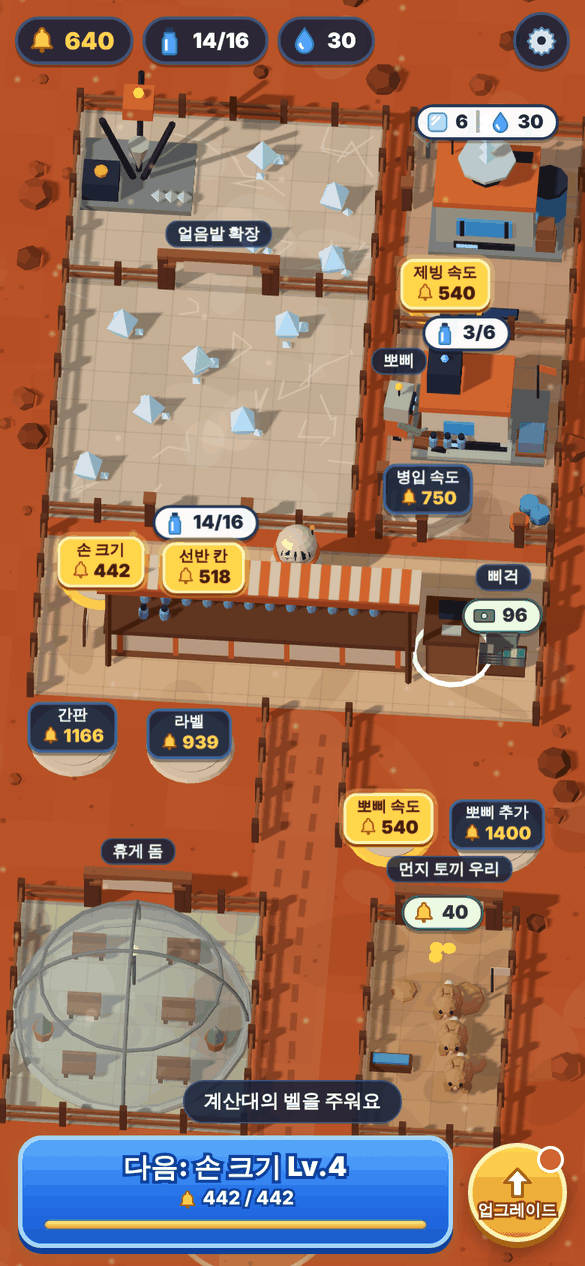
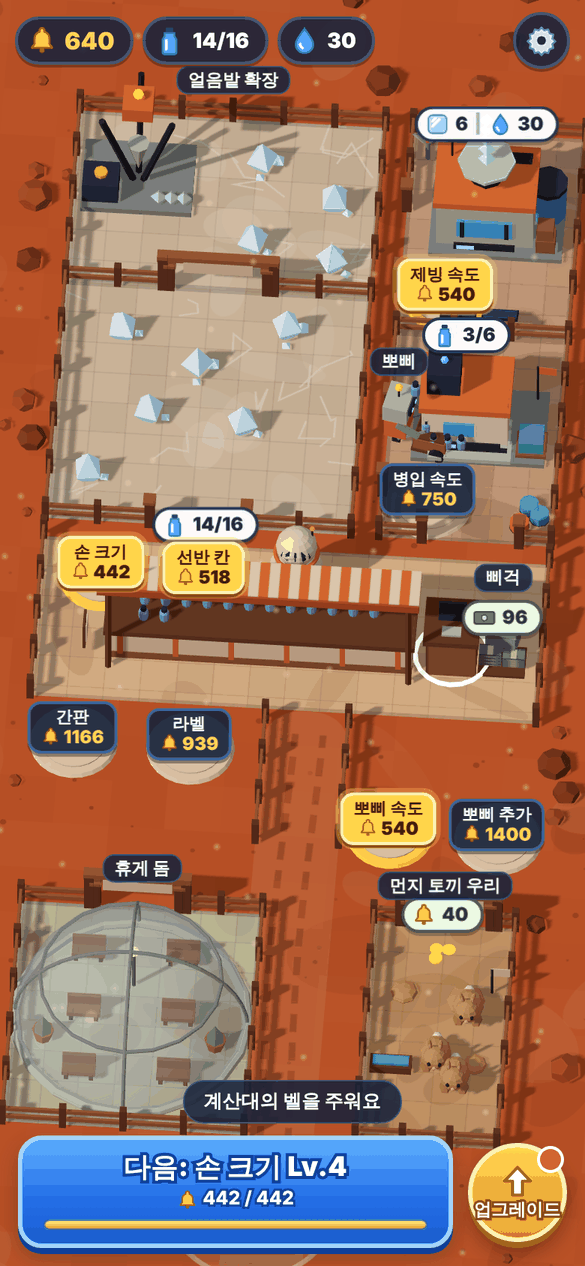
리뷰 반영: 갇힌 저장 위치 복구, 발판은 서 있을 때만, 힌트 막다른 길 정리, 라벨 겹침·글자 크기
- 옛 배치의 저장 위치가 새 건물 안이면 시작 지점으로 옮긴다 (이전엔 영영
  못 움직여 처음부터 다시 할 수밖에 없었음). 드릴 발판 완료 시도 같은 처리
- 저장 데이터에 빠진 필드는 fresh()로 채워 깨진 저장으로 시작이 안 죽게
- 발판은 걸어 지나갈 때는 벨을 안 빼고 서 있을 때만 (배너 목표가 엉뚱한
  발판으로 바뀌던 것)
- 힌트: 얼음 1~2개 들고 있을 때 제빙기로, 선반 꽉 찼고 삐걱 있으면
  기다리기, 맨 앞 손님이 선반보다 많이 원하면 계산대 힌트 안 띄움,
  토끼 우리 벨은 값어치 있을 때만
- 뽀삐: 선반이 꽉 차면 손수레를 든 채 카운터에서 기다렸다 바로 올림
- 백그라운드에서 돌아와도 부재 중 수익 정산
- 업그레이드 버튼·배너는 조이스틱 손가락이 눌린 채 두 번째 손가락으로
  눌러도 열리게 (click → pointerup)
- 구역 이름은 울타리 위, 게이트 가격표는 아치에 걸어 발판 가격표와 안 겹침.
  작은 글자 10→11px. 스크린샷 3장 갱신. iOS 최소 버전 16.4(importmap)

Claude-Session: https://claude.ai/code/session_011LWeRPxYCXJHYgvHUxMU7a

diff --git a/app/index.html b/app/index.html
@@ -32,7 +32,7 @@ canvas#c{position:fixed;inset:0;width:100%;height:100%;display:block}
 .rc{display:flex;align-items:center;gap:4px;background:rgba(255,255,255,.96);border:2px solid #2b3a55;border-radius:14px;padding:2px 8px 2px 5px;font-size:12.5px;font-weight:900;color:#1b2740;box-shadow:0 2px 0 rgba(0,0,0,.25)}
 .rc .ic{width:16px;height:16px}
 .rc.full{border-color:#ff5a3c}
-.rc .mx{background:#ff5a3c;color:#fff;border-radius:8px;padding:0 5px;font-size:10px;margin-left:2px;line-height:14px;animation:bounce .5s}
+.rc .mx{background:#ff5a3c;color:#fff;border-radius:8px;padding:0 5px;font-size:11px;margin-left:2px;line-height:14px;animation:bounce .5s}
 .rc.cash{background:#e6ffd9;border-color:#2e7d32;color:#1b5e20}
 .pulse{animation:pulse .32s}
 @keyframes pulse{0%{transform:translate(-50%,-100%) scale(1)}40%{transform:translate(-50%,-100%) scale(1.2)}100%{transform:translate(-50%,-100%) scale(1)}}
@@ -41,12 +41,12 @@ canvas#c{position:fixed;inset:0;width:100%;height:100%;display:block}
 .bub::after{content:"";position:absolute;left:50%;top:100%;margin-left:-5px;border:5px solid transparent;border-top-color:#2b3a55}
 .bub.hot{background:#ffe3dc;border-color:#c23b2a}
 .bub .ic{width:15px;height:15px}
-.sg{background:rgba(21,33,58,.9);border:2px solid #4a6190;color:#fff;padding:2px 7px 3px;font-size:10px;font-weight:800;border-radius:9px;display:flex;flex-direction:column;align-items:center;line-height:1.15;box-shadow:0 2px 0 rgba(0,0,0,.35)}
+.sg{background:rgba(21,33,58,.9);border:2px solid #4a6190;color:#fff;padding:2px 7px 3px;font-size:11px;font-weight:800;border-radius:9px;display:flex;flex-direction:column;align-items:center;line-height:1.15;box-shadow:0 2px 0 rgba(0,0,0,.35)}
 .sg b{font-weight:900;font-size:12px;color:#ffd45a;display:flex;align-items:center;gap:2px}.sg b .ic{width:13px;height:13px}
 .sg.ok{background:#ffd54a;border-color:#fff2b0;color:#3a2200;box-shadow:0 2px 0 #8a5200,0 0 0 3px rgba(255,213,74,.4)}.sg.ok b{color:#3a2200}
 .sg.gate{flex-direction:row;gap:4px;background:linear-gradient(#55a9ff,#1f63d6);border-color:#a9d6ff;color:#fff;border-radius:10px;padding:3px 10px;font-size:12.5px;box-shadow:0 2px 0 var(--blueD);-webkit-text-stroke:3px var(--blueD);paint-order:stroke fill}.sg.gate b{color:#fff;font-size:12.5px}
 .sg.gate.ok{background:linear-gradient(#ffd45a,#f0a428);border-color:#fff0b8;box-shadow:0 2px 0 var(--goldD),0 0 0 3px rgba(255,213,74,.35);-webkit-text-stroke-color:#8a5200}.sg.gate.ok b{color:#fff}
-.nm{background:rgba(21,33,58,.85);color:#fff;padding:1px 7px;font-size:10.5px;font-weight:800;border-radius:8px;border:1.5px solid var(--line)}
+.nm{background:rgba(21,33,58,.85);color:#fff;padding:1px 7px;font-size:11.5px;font-weight:800;border-radius:8px;border:1.5px solid var(--line)}
 .fl{font-weight:900;font-size:17px;color:#fff;-webkit-text-stroke:4px #1b2740;paint-order:stroke fill;display:flex;align-items:center;gap:2px}
 .fl.gold{color:#ffd45a}
 .fl .ic{width:16px;height:16px}
@@ -70,7 +70,7 @@ canvas#c{position:fixed;inset:0;width:100%;height:100%;display:block}
 .bs{font-size:12.5px;font-weight:800;-webkit-text-stroke:3px var(--blueD);paint-order:stroke fill;display:flex;justify-content:center;align-items:center;gap:3px}
 .bpw{height:7px;background:rgba(10,30,80,.55);border-radius:4px;margin-top:4px;overflow:hidden;border:1px solid rgba(255,255,255,.25)}
 #bp{height:100%;width:0;background:linear-gradient(#ffe58a,#f0a428);border-radius:4px;transition:width .3s}
-#upBtn{pointer-events:auto;cursor:pointer;width:66px;height:66px;border-radius:50%;background:linear-gradient(#ffd45a,#f2a92a 60%,#e08f12);border:3px solid #fff0b8;box-shadow:0 4px 0 var(--goldD),0 8px 14px rgba(0,0,0,.3);display:flex;flex-direction:column;align-items:center;justify-content:center;color:#fff;font-size:10.5px;font-weight:900;-webkit-text-stroke:3px #8a5200;paint-order:stroke fill;position:relative;flex:none;transition:transform .1s}
+#upBtn{pointer-events:auto;cursor:pointer;touch-action:none;width:66px;height:66px;border-radius:50%;background:linear-gradient(#ffd45a,#f2a92a 60%,#e08f12);border:3px solid #fff0b8;box-shadow:0 4px 0 var(--goldD),0 8px 14px rgba(0,0,0,.3);display:flex;flex-direction:column;align-items:center;justify-content:center;color:#fff;font-size:11.5px;font-weight:900;-webkit-text-stroke:3px #8a5200;paint-order:stroke fill;position:relative;flex:none;transition:transform .1s}
 #upBtn .ic{width:26px;height:26px;margin-bottom:-2px}
 #upBtn:active{transform:translateY(2px)}
 #upBtn .dot{position:absolute;top:-1px;right:-1px;width:18px;height:18px;border-radius:50%;background:#ff4d4d;border:2px solid #fff;display:none}
@@ -204,7 +204,7 @@ const MELT_CAP=12,BOTTLE_CAP=6;
 const KEY='mars-bottle-v1';
 function fresh(){return{bells:0,sold:0,custs:0,pads:{},padProg:{},p:{x:200,y:450,dir:[0,1],carry:[]},water:0,bottles:0,shelf:0,cash:0,
   meltQ:0,meltT:0,botT:0,spots:ICE_SPOTS.map(()=>0),savedAt:Date.now(),muted:false,spawnT:3,penTip:0,penT:0}}
-function migrate(s){if(!Array.isArray(s.spots))s.spots=[];while(s.spots.length<ICE_SPOTS.length)s.spots.push(0);if((s.pads.drill||0)>=1&&!s.pads.ice2)s.pads.ice2=1;s.penTip=s.penTip||0;s.penT=s.penT||0;if(!s.p.carry)s.p.carry=[];return s}
+function migrate(s){const f=fresh();for(const k in f)if(s[k]===undefined||s[k]===null)s[k]=f[k];for(const k in f.p)if(s.p[k]===undefined)s.p[k]=f.p[k];if(!Array.isArray(s.spots))s.spots=[];while(s.spots.length<ICE_SPOTS.length)s.spots.push(0);if((s.pads.drill||0)>=1&&!s.pads.ice2)s.pads.ice2=1;s.penTip=s.penTip||0;s.penT=s.penT||0;if(!s.p.carry)s.p.carry=[];return s}
 let S=load()||fresh();
 function load(){try{const s=JSON.parse(localStorage.getItem(KEY));if(s&&s.p&&s.pads)return migrate(s)}catch(e){}return null}
 function save(){S.savedAt=Date.now();try{localStorage.setItem(KEY,JSON.stringify(S))}catch(e){}}
@@ -461,8 +461,8 @@ function interact(dt){actT-=dt;if(actT>0)return;const p=S.p,c=p.carry;
 function flashBells(){const b=$('#bells');b.classList.add('flash');setTimeout(()=>b.classList.remove('flash'),150)}
 /* ================= 발판·구매 ================= */
 let padCoinT=0;
-function completePad(pd){const lv=padLv(pd.id);S.pads[pd.id]=lv+1;S.padProg[pd.id]=0;sfx(pd.zone?'unlock':'up');ringFx(pd.x,pd.y);toast(`✨ ${pd.n} ${pd.max>1?'Lv.'+(lv+1):'완료'}`);onPad(pd.id);save();renderHud();if($('#sheet').classList.contains('on'))renderSheet()}
-function tickPads(dt){const p=S.p;padCoinT-=dt;for(const pd of PADS){const lv=padLv(pd.id);if(lv>=pd.max||!pd.req(S))continue;if(Math.hypot(p.x-pd.x,p.y-pd.y)>30)continue;
+function completePad(pd){const lv=padLv(pd.id);S.pads[pd.id]=lv+1;S.padProg[pd.id]=0;if(pd.id==='drill'&&blocked(S.p.x,S.p.y))S.p.y=STN.drill.y+STN.drill.h/2+9;sfx(pd.zone?'unlock':'up');ringFx(pd.x,pd.y);toast(`✨ ${pd.n} ${pd.max>1?'Lv.'+(lv+1):'완료'}`);onPad(pd.id);save();renderHud();if($('#sheet').classList.contains('on'))renderSheet()}
+function tickPads(dt){if(walking)return;const p=S.p;padCoinT-=dt;for(const pd of PADS){const lv=padLv(pd.id);if(lv>=pd.max||!pd.req(S))continue;if(Math.hypot(p.x-pd.x,p.y-pd.y)>30)continue;
   const cost=pd.cost(lv);let prog=S.padProg[pd.id]||0;if(prog>=cost)continue;const take=Math.min(S.bells,cost-prog,Math.max(3,cost*dt*1.1));if(take<=0)continue;
   S.bells-=take;prog+=take;S.padProg[pd.id]=prog;if(padCoinT<=0){padCoinT=.08;fly('coin',{x:p.x,y:p.y,h:50},{x:pd.x,y:pd.y,h:4},.25);sfx('pad')}
   if(prog>=cost)completePad(pd)}}
@@ -508,7 +508,7 @@ function tickBots(dt){for(const b of bots){b.moving=false;if(b.k!=='runner')cont
   if(b.st==='toBottler'){if(moveTo(b,STN.bottler.x-58,STN.bottler.y+8,sp)<2){b.st='load';b.t=0;b.dir=[1,0]}}
   else if(b.st==='load'){b.t+=dt;if(S.bottles>0&&b.carry<4&&b.t>.25){b.t=0;S.bottles--;b.carry++;const s=STN.bottler;fly('bottle',{x:s.x-32,y:s.y+24,h:10},{x:b.x+10,y:b.y+8,h:24},.25)}if(b.carry>=4||(b.carry>0&&S.bottles===0&&b.t>1.5))b.st='toCounter'}
   else if(b.st==='toCounter'){if(moveTo(b,STN.counter.x-30,STN.counter.y-40,sp)<2){b.st='unload';b.t=0;b.dir=[0,1]}}
-  else if(b.st==='unload'){b.t+=dt;if(b.carry>0&&S.shelf<shelfCap()&&b.t>.2){b.t=0;b.carry--;const i=S.shelf;S.shelf++;fly('bottle',{x:b.x,y:b.y+12,h:24},shelfPos(i),.25,()=>sfx('put'))}if(b.carry===0||(S.shelf>=shelfCap()&&b.t>1.2))b.st='toBottler'}}}
+  else if(b.st==='unload'){b.t+=dt;if(b.carry>0&&S.shelf<shelfCap()&&b.t>.2){b.t=0;b.carry--;const i=S.shelf;S.shelf++;fly('bottle',{x:b.x,y:b.y+12,h:24},shelfPos(i),.25,()=>sfx('put'))}if(b.carry===0)b.st='toBottler';else if(S.shelf>=shelfCap())b.t=0}}}
 function tickHoppers(dt){for(const h of hoppers){h.moving=false;if(h.wait>0){h.wait-=dt;if(h.wait<=0){h.tx=PEN.x0+20+Math.random()*(PEN.x1-PEN.x0-40);h.ty=PEN.y0+44+Math.random()*(PEN.y1-PEN.y0-66)}continue}
   const d=moveTo(h,h.tx,h.ty,58*dt);h.hop+=dt*7.5;if(d<2){h.wait=1+Math.random()*3;h.hop=0}}}
 /* ================= 부재 중 수익 ================= */
@@ -520,13 +520,13 @@ $('#offok').onclick=()=>{$('#offline').classList.remove('on');sfx('coin')};
 let hintTarget=null;
 function nextPad(){let best=null;for(const pd of PADS){const lv=padLv(pd.id);if(lv>=pd.max||!pd.req(S))continue;const cost=pd.cost(lv),prog=S.padProg[pd.id]||0;if(!best||cost-prog<best.rem)best={pd,lv,cost,prog,rem:cost-prog}}return best}
 function hint(){const c=S.p.carry,s=S;let t='',tg=null;const ice=c.length&&c[0]==='ice',bot=c.length&&c[0]==='bottle';
-  if(ice&&c.length>=Math.min(carryMax(),3)){t='제빙기에 얼음을 넣어요';tg=STN.melter}
+  if(ice&&(c.length>=Math.min(carryMax(),3)||s.bottles>0||!s.spots.some((v,i)=>v<=0&&spotOpen(i)))){t='제빙기에 얼음을 넣어요';tg=STN.melter}
   else if(bot&&s.shelf<shelfCap()){t='카운터에 물병을 올려요';tg={x:STN.counter.x,y:STN.counter.y-30}}
-  else if(bot&&!padLv('cashier')){t='선반이 꽉 찼어요 · 계산대 옆에 서서 팔아요';tg=STN.register}
+  else if(bot){if(padLv('cashier')){t='선반이 꽉 찼어요 · 손님이 사가면 올려요';tg={x:STN.counter.x,y:STN.counter.y-30}}else{t='선반이 꽉 찼어요 · 계산대 옆에 서서 팔아요';tg=STN.register}}
   else if(s.cash>0&&(!padLv('cashier')||s.cash>bottlePrice()*4)){t='계산대의 벨을 주워요';tg=STN.register}
   else if(s.bottles>0&&s.shelf<shelfCap()&&!padLv('runner')){t='병입기에서 물병을 받아요';tg=STN.bottler}
-  else if(s.shelf>0&&custs.some(x=>x.st==='queue'&&x.qi===0)&&!padLv('cashier')){t='계산대 옆에 서면 팔려요';tg=STN.register}
-  else if(s.penTip>0&&s.sold>5){t='토끼 우리에 떨어진 벨을 주워요';tg=PEN_TIP}
+  else if(s.shelf>0&&custs.some(x=>x.st==='queue'&&x.qi===0&&x.want<=s.shelf)&&!padLv('cashier')){t='계산대 옆에 서면 팔려요';tg=STN.register}
+  else if(s.penTip>=bottlePrice()*4){t='토끼 우리에 떨어진 벨을 주워요';tg=PEN_TIP}
   else{const np=nextPad();
     if(np&&s.sold>=1&&s.bells>=np.rem*.5){t=np.pd.zone?`게이트 발판에 서서 구역을 열어요: ${np.pd.n}`:`노란 발판에 서서: ${np.pd.n}`;tg=np.pd}
     else if(!padLv('drill')&&(s.meltQ===0||ice)){t=ice?'얼음을 더 주워요':'얼음을 주워요 (가까이 가면 자동)';const i=s.spots.findIndex((v,i)=>v<=0&&spotOpen(i));tg=i>=0?{x:ICE_SPOTS[i][0],y:ICE_SPOTS[i][1]}:null}
@@ -568,7 +568,7 @@ function renderSheet(){const rows=$('#rows');const order=PADS.map(pd=>{const lv=
   if(rows._html!==html){rows.innerHTML=html;rows._html=html;rows.querySelectorAll('.buy[data-id]').forEach(b=>b.onclick=()=>{buyPad(b.dataset.id)})}}
 const openSheet=()=>{renderSheet();$('#sheet').classList.add('on');$('#scrim').classList.add('on');joy=null;joyVec=null;joyEl.classList.remove('on')};
 const closeSheet=()=>{$('#sheet').classList.remove('on');$('#scrim').classList.remove('on')};
-$('#upBtn').onclick=openSheet;$('#banner').onclick=openSheet;$('#scrim').onclick=closeSheet;$('#sheetClose').onclick=closeSheet;
+for(const id of ['#upBtn','#banner']){const el=$(id);el.onclick=null;el.addEventListener('pointerup',e=>{e.preventDefault();openSheet()})} // click은 조이스틱 손가락이 눌린 채 두 번째 손가락으로 누르면 안 올 수 있다$('#scrim').onclick=closeSheet;$('#sheetClose').onclick=closeSheet;
 /* ================= 라벨 (키 기반 DOM 재사용) ================= */
 const labelsEl=$('#labels'),labMap=new Map();let labUsed=new Set();
 function lab(key,cls,html,x,y,h,pulse,clampX){const s=toScreen(x,y,h);if(s.x<-140||s.x>VW+140||s.y<-80||s.y>VH+80)return;let e=labMap.get(key);
@@ -620,9 +620,9 @@ function render(t){const dt=1/60;const bob=Math.sin(t/420)*2.5;
   lab('rc-shelf','rc'+(S.shelf>=shelfCap()?' full':''),cnt('bottle',S.shelf,shelfCap()),STN.counter.x-40,STN.counter.y,122+bob,true);
   if(S.cash>0)lab('rc-cash','rc cash',`<i class="ic cash"></i>${S.cash}`,STN.register.x+36,STN.register.y+4,20+cashHeight()+bob,true);
   if(S.penTip>0&&padLv('pen'))lab('rc-pen','rc cash',`<i class="ic bell"></i>${S.penTip}`,PEN_TIP.x,PEN_TIP.y,26+bob,true);
-  for(const k in ZONES){const z=ZONES[k];if(z.pad&&zoneOpen(k)){const a=zoneG[k].arch.position;lab('zn-'+k,'nm',z.name,a.x+200,a.z+520,52)}}
+  for(const k in ZONES){const z=ZONES[k];if(z.pad&&zoneOpen(k)){lab('zn-'+k,'nm',z.name,(z.x0+z.x1)/2,z.y0-4,26)}}
   for(const [id,g] of padG){if(!g.visible)continue;const pd=g.userData.pd,lv=padLv(id),cost=pd.cost(lv),prog=S.padProg[id]||0,ok=S.bells>=cost-prog;
-    if(pd.zone){const a=zoneG[pd.zone].arch.position;lab('pad-'+id,'sg gate'+(ok?' ok':''),`<i class="ic lock"></i>${pd.sn} <b><i class="ic bell"></i>${Math.ceil(cost-prog)}</b>`,a.x+200,a.z+520,58,false,true)}
+    if(pd.zone){const a=zoneG[pd.zone].arch.position;lab('pad-'+id,'sg gate'+(ok?' ok':''),`<i class="ic lock"></i>${pd.sn} <b><i class="ic bell"></i>${Math.ceil(cost-prog)}</b>`,a.x+200,a.z+520,24,false,true)}
     else lab('pad-'+id,'sg'+(ok?' ok':''),`<span>${pd.sn}</span><b><i class="ic bell"></i>${Math.ceil(cost-prog)}</b>`,pd.x,pd.y+14,4)}
   for(const c of custs){if(c.st==='queue'||c.st==='walkin')lab('cu'+c.id,'bub'+(c.wait>25?' hot':''),`<i class="ic bottle"></i>×${c.want}`,c.x,c.y,72);else if(c.jump!==undefined)lab('cu'+c.id,'bub','<i class="ic heart"></i>',c.x,c.y,80)}
   for(const b of bots)lab('bt'+bots.indexOf(b),'nm',b.k==='cashier'?'삐걱':'뽀삐',b.x,b.y,72);
@@ -636,6 +636,7 @@ function restoreBots(){for(const g of botG)world.remove(g);botG.length=0;bots=[]
   stnG.drill.visible=padLv('drill')>0;domeG.visible=padLv('dome')>0;penG.visible=padLv('pen')>0;if(padLv('pen'))spawnHoppers();else{for(const h of hoppers)world.remove(h.g);hoppers.length=0}
   for(const k in ZONES){const zg=zoneG[k];const open=zoneOpen(k);zg.g.visible=open;zg.g.scale.setScalar(1);if(zg.arch)zg.arch.userData.lock.visible=!open}
   ICE_SPOTS.forEach((_,i)=>{iceG[i].scale.setScalar(S.spots[i]>0?.001:1);iceG[i].visible=spotOpen(i)})}
+if(blocked(S.p.x,S.p.y)){const f=fresh().p;S.p.x=f.x;S.p.y=f.y;S.p.dir=[0,1]} // 옛 배치의 저장 위치가 새 건물 안이면 갇히므로 시작 지점으로
 restoreBots();renderHud();hint();cam.y=S.p.y;updateCamera();$('#loading').remove();
 $('#start').onclick=()=>{$('#intro').classList.remove('on');sfx('up');offlineEarn()};
 if(S.sold>0){$('#intro h1').textContent='다시 오셨군요';$('#intro p').innerHTML=`지금까지 물병 ${S.sold}개 판매 · <i class="ic bell"></i> ${Math.floor(S.bells)}`;$('#start').textContent='이어서 하기'}
@@ -643,7 +644,7 @@ $('#gear').onclick=()=>{$('#muteBtn').textContent=S.muted?'🔇 소리 꺼짐':'
 $('#setClose').onclick=()=>$('#settings').classList.remove('on');
 $('#muteBtn').onclick=()=>{S.muted=!S.muted;$('#muteBtn').textContent=S.muted?'🔇 소리 꺼짐':'🔊 소리 켜짐';save()};
 let resetArm=0;$('#resetBtn').onclick=()=>{const b=$('#resetBtn');if(Date.now()-resetArm>4000){resetArm=Date.now();b.textContent='정말 처음부터? 다시 누르면 지워요';toast('다시 누르면 가게가 지워져요');setTimeout(()=>{b.textContent='처음부터 다시';resetArm=0},4000);return}b.textContent='처음부터 다시';resetArm=0;{localStorage.removeItem(KEY);S=fresh();for(const [id,g] of custG)world.remove(g);custG.clear();custs=[];seats.forEach(s=>{s.used=0;s.tip=0;s.mesh.visible=false});restoreBots();$('#settings').classList.remove('on');renderHud();save()}};
-addEventListener('visibilitychange',()=>{if(document.hidden)save()});addEventListener('pagehide',save);
+addEventListener('visibilitychange',()=>{if(document.hidden)save();else if(!$('#intro').classList.contains('on'))offlineEarn()});addEventListener('pagehide',save);
 Object.defineProperties(window,{S:{get:()=>S},custs:{get:()=>custs},bots:{get:()=>bots},joyVec:{get:()=>joyVec,set:v=>{joyVec=v}}});
 window.dbg={onPad,restoreBots,save,buyPad,unlockZone,openSheet,renderer};window.PADS=PADS;window.STN=STN;window.ICE_SPOTS=ICE_SPOTS;window.ZONES=ZONES;window.padLv=padLv;window.carryMax=carryMax;window.spotOpen=spotOpen;
 requestAnimationFrame(loop);
